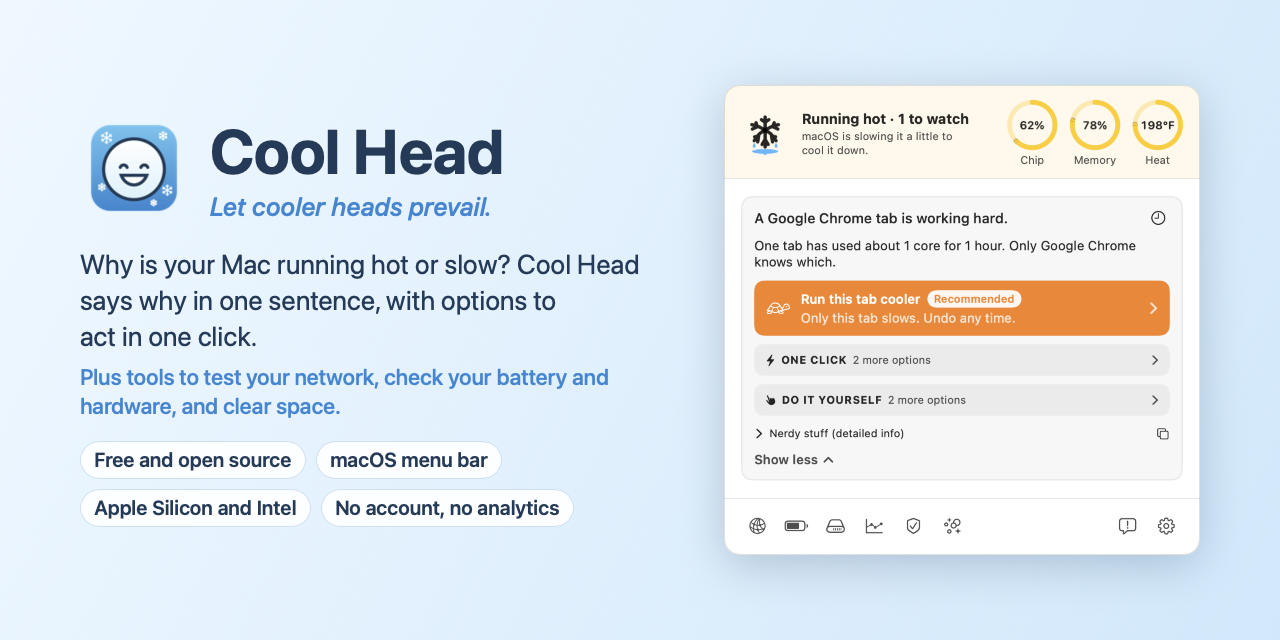
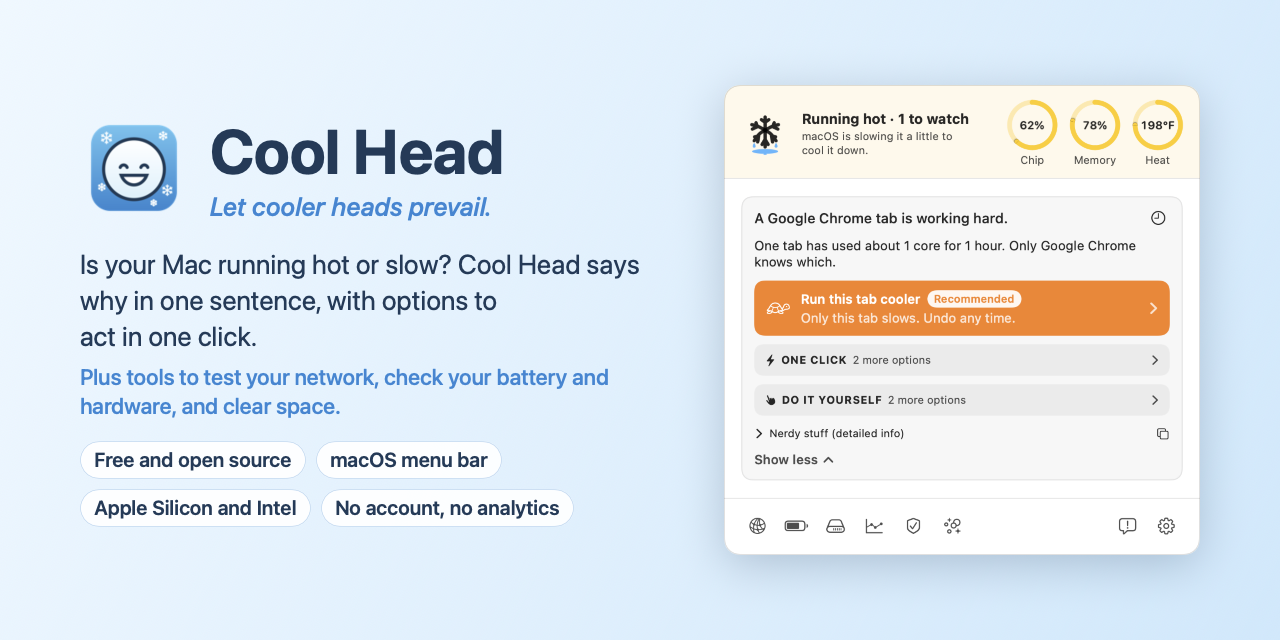
Managed by Cool Head open when nothing else is; About in the README's words (#77)
## What changes

- **Managed by Cool Head opens by itself** each time the panel opens,
and when the last tool or Settings closes. It folds while a card or tool
is open. Folding a card doesn't open it, so the cards don't move from
under the pointer just after a click. A card left open while a tool was
shown stays open.
- **About** uses the README's opening sentence: "Is your Mac running hot
or slow? Cool Head says why in one sentence, with options to act in one
click, plus tools to test your network, check your battery and hardware,
and clear space."
- **The license line** in About (from the Info.plist that
`scripts/build-app.sh` writes) says "GNU AGPL v3.0 only", as README,
TERMS, and COMMERCIAL do.
- **`scripts/apply-repo-settings.sh`** holds the proposed repository
description in the same words, the homepage, and all 20 topics. The
description on GitHub itself is changed only with Phil's yes.
- README, DESIGN.md, and two change notes.

## Checked

- `coolhead selftest`: 185 of 185.
- Renders with made-up samples: the panel freshly opened, with the
section open; About in light mode.
- Not tried in the running app: closing a tool and seeing the section
open.

The social card (PR 76) gets the same opening question on its own
branch.

Assisted by [Claude Code](https://claude.com/claude-code)

Changed region(s): [[0.0625, 0.375, 0.5, 0.5]]

diff --git a/Sources/CoolHeadApp/PanelView.swift b/Sources/CoolHeadApp/PanelView.swift
@@ -104,7 +104,9 @@ struct PanelView: View {
             }
             .frame(height: min(max(middleHeight, 40), PanelView.maxMiddle))
             .onPreferenceChange(MiddleHeight.self) { middleHeight = $0 }
-            .onChange(of: watcher.panelSession) { PanelFocus.shared.open = nil }
+            // with nothing else open, Managed by Cool Head is: each time the panel opens, and when the last tool closes
+            .onChange(of: watcher.panelSession) { PanelFocus.shared.open = PanelFocus.onHold }
+            .onChange(of: toolOpen) { if !toolOpen { PanelFocus.shared.openSection() } }
             Divider()
             // fixed at the bottom
             VStack(alignment: .leading, spacing: 10) {
@@ -124,6 +126,12 @@ struct PanelView: View {
     /// so a screenshot never shows the person's own processes.
     /// The header's level: the same rule, and the same cards, as the snowflake below it and the menu bar icon.
     var level: Watcher.Level { watcher.level(shownCards, thermal: RunningStrip.snapshotThermal) }
+
+    /// A tool, Settings, Report a problem, or Trends is open in the middle.
+    var toolOpen: Bool {
+        network.shown || tools.settings || tools.trusted || tools.battery || tools.hardware || tools.cleaner
+            || watcher.showReport || watcher.showHistory
+    }
 
     var shownCards: [LiveCard] {
         // COOLHEAD_SNAPSHOT_SAMPLES shows example cards (as `coolhead wording` names them, separated by |) in place of
@@ -176,8 +184,14 @@ struct GroupHeading: View {
 /// time"). Opening one closes the other, so the panel rarely needs to scroll.
 final class PanelFocus: ObservableObject {
     static let shared = PanelFocus()
-    /// The open card's id, or `onHold`; nil when everything is closed.
-    @Published var open: String? = ProcessInfo.processInfo.environment["COOLHEAD_SNAPSHOT_ONHOLD_OPEN"] != nil ? PanelFocus.onHold : nil
+    /// The open card's id, or `onHold`; nil when everything is closed. Managed by Cool Head starts open, and opens again
+    /// whenever nothing else is: each time the panel opens, and when the last tool or Settings closes (Phil, 19 November
+    /// 2026: "When there's nothing open (i.e., fresh panel open, or after closing a tool or settings) let's auto-expand
+    /// the "Managed by Cool Head" pane, because it's one less click for the user, more info, and "why not?""). Folding a
+    /// card doesn't open it, so the cards don't move from under the pointer just after a click. Screenshots that open
+    /// the first card (COOLHEAD_SNAPSHOT_OPEN) start with it folded, unless COOLHEAD_SNAPSHOT_ONHOLD_OPEN is set.
+    @Published var open: String? = ProcessInfo.processInfo.environment["COOLHEAD_SNAPSHOT_ONHOLD_OPEN"] != nil
+        || !PanelFocus.snapshotCard ? PanelFocus.onHold : nil
     static let onHold = "on-hold"
     /// Counts the panel's openings, so the frost is drawn fresh each time it opens.
     @Published var opened = 0
@@ -190,6 +204,8 @@ final class PanelFocus: ObservableObject {
     /// (Phil, 19 November 2026: "if someone opens the hold panel when on a tool screen, we might want them collapsed, or
     /// we might want to auto-close the tool", then "Build the "managed by..." edits as suggested").
     func foldSection() { if open == PanelFocus.onHold { open = nil } }
+    /// Opens Managed by Cool Head if nothing else is open: a card left open while a tool was shown stays open.
+    func openSection() { if open == nil { withAnimation(.easeOut(duration: 0.15)) { open = PanelFocus.onHold } } }
 }
 
 /// What's typed in Report a problem, and what's picked, kept while the form closes, the panel closes, or another tool

diff --git a/Sources/CoolHeadApp/CoolHeadApp.swift b/Sources/CoolHeadApp/CoolHeadApp.swift
@@ -173,7 +173,8 @@ enum About {
         let italic = NSFontManager.shared.convert(NSFont.systemFont(ofSize: 12), toHaveTrait: .italicFontMask)
         let center = NSMutableParagraphStyle(); center.alignment = .center
         let credits = NSMutableAttributedString(string: "Let cooler heads prevail.\n\n", attributes: [.font: italic])
-        credits.append(NSAttributedString(string: "Why is my Mac running hot or slow? What's happening, gathered from across your Mac into one place, with clear options to act in one click.\n\n",
+        // the same sentence as the README's opening, the repository's description, and its social card
+        credits.append(NSAttributedString(string: "Is your Mac running hot or slow? Cool Head says why in one sentence, with options to act in one click, plus tools to test your network, check your battery and hardware, and clear space.\n\n",
                                           attributes: [.font: body]))
         credits.append(NSAttributedString(string: "github.com/ThePhilDiamond/CoolHead",
                                           attributes: [.font: body, .link: URL(string: "https://github.com/ThePhilDiamond/CoolHead")!]))

diff --git a/scripts/social-card.swift b/scripts/social-card.swift
@@ -40,7 +40,7 @@ struct Split: View {
                             Text("Let cooler heads prevail.").font(.system(size: 26, weight: .medium).italic()).foregroundStyle(deep)
                         }
                     }
-                    Text("Why is your Mac running hot or slow? Cool\u{00A0}Head says why in one sentence, with options to act\u{00A0}in\u{00A0}one\u{00A0}click.")
+                    Text("Is your Mac running hot or slow? Cool\u{00A0}Head says why in one sentence, with options to act\u{00A0}in\u{00A0}one\u{00A0}click.")
                         .font(.system(size: 27, weight: .regular)).foregroundStyle(navy)
                         .lineSpacing(4).fixedSize(horizontal: false, vertical: true)
                         .padding(.top, 26)

diff --git a/DESIGN.md b/DESIGN.md
@@ -19,7 +19,7 @@ Drafted 14 November 2026 for Phil's review, at his request: *"we also should pos
 
 The menu bar panel, 440 points wide, under the icon; its top and bottom stay put, and the middle grows to fit, up to 720 points or the screen's height less the top and bottom, then scrolls. With scroll bars that take room (Show scroll bars: Always, or a mouse), the panel grows to the right by the scroll bar's width while the middle scrolls, so nothing in it narrows or moves (Phil, 18 November 2026: "Can we EXPAND the panel when we need a scroll bar instead of rendering it inside the panel?"). One thing is open at a time in the middle, a card or Managed by Cool Head, so it rarely needs to scroll (Phil, 18 November 2026: "only have one expanded thing at a time"):
 
-- Managed by Cool Head, at the top (called On hold until Phil, 19 November 2026: "i don't like "on hold" as a user could interpret that as disabled, rather than throttled/managed"): folded to one frosted line with its count on a dark band, until clicked; open, anything Cool Head is running cooler, pausing, limiting, or has turned off, as frosted lines in one titled section, and sync apps waiting to be resumed. Each line's undo is a button on the line itself (Speed up, Resume, Remove limit, Turn on, Back it up; "I resumed it" for a sync app, which Cool Head can't resume) (Phil, 16 November 2026: "It needs to be clear to the user they they need to expand and then act, or we need to add a big old button right there to release it"), and under it what it is and since when, always shown, since the section is the only thing open (Phil, 19 November 2026: "As we only display one thing at a time, when the hold panel is open, we should expand them, no?"). One Report a problem button under the lines covers all of them, and its form asks which one caused the trouble. Opening a tool folds the section, and opening the section closes the tool, as one tool closes another (Phil, 19 November 2026: "Build the "managed by..." edits as suggested"). A report's words and choices are kept, in memory only, through the panel closing or a tool opening, until it's sent or cancelled (Phil, 19 November 2026: "can we protect text entered in a report in case of accidental closes or clicking a tool?"). The frost grows along every edge, most in the corners, with fine needles for texture and two wild ferns from the top, chosen by Phil from two rounds of renders ("I think version 4 of the frost is the best"); its numbers are in `FrostStyle` to tune.
+- Managed by Cool Head, at the top (called On hold until Phil, 19 November 2026: "i don't like "on hold" as a user could interpret that as disabled, rather than throttled/managed"): open whenever nothing else is: each time the panel opens, and when the last tool or Settings closes, but not when a card folds, so the cards don't move from under the pointer (Phil, 19 November 2026: "When there's nothing open (i.e., fresh panel open, or after closing a tool or settings) let's auto-expand the "Managed by Cool Head" pane, because it's one less click for the user, more info, and "why not?""); folded, one frosted line with its count on a dark band, until clicked; open, anything Cool Head is running cooler, pausing, limiting, or has turned off, as frosted lines in one titled section, and sync apps waiting to be resumed. Each line's undo is a button on the line itself (Speed up, Resume, Remove limit, Turn on, Back it up; "I resumed it" for a sync app, which Cool Head can't resume) (Phil, 16 November 2026: "It needs to be clear to the user they they need to expand and then act, or we need to add a big old button right there to release it"), and under it what it is and since when, always shown, since the section is the only thing open (Phil, 19 November 2026: "As we only display one thing at a time, when the hold panel is open, we should expand them, no?"). One Report a problem button under the lines covers all of them, and its form asks which one caused the trouble. Opening a tool folds the section, and opening the section closes the tool, as one tool closes another (Phil, 19 November 2026: "Build the "managed by..." edits as suggested"). A report's words and choices are kept, in memory only, through the panel closing or a tool opening, until it's sent or cancelled (Phil, 19 November 2026: "can we protect text entered in a report in case of accidental closes or clicking a tool?"). The frost grows along every edge, most in the corners, with fine needles for texture and two wild ferns from the top, chosen by Phil from two rounds of renders ("I think version 4 of the frost is the best"); its numbers are in `FrostStyle` to tune.
 - Cards: one short sentence each, with Explore fixes (worth watching) or Learn more (calm), and a clock in the corner to check back later. Open, a card shows its explanation, its recommended option, and then One click and Do it yourself, each folded to a line saying how many more options it holds; one opens at a time.
 - At the very top, how the Mac is running, in a row tinted green, yellow, or red (there's no separate header: Phil, 17 November 2026, "The text shouldn't say "Starting to melt" - that's an abstraction taking the icon too far"): the menu bar icon's Melting Snowflake drawn larger, whole, melting, or in flames by the same level as the menu bar icon (anything slowing the Mac or needing action melts it; a serious problem sets it on fire); the status as its title ("1 to watch", "All calm", "Running hot · 1 looks stuck") over what's causing it in a few words; and three round gauges, Chip, Memory, and Heat (the chip's temperature, in the unit macOS's region settings use), colored by level. Memory is macOS's own measure for memory pressure, never "Memory Used".
 - Along the bottom: the tools, each an icon with its name (names can be hidden): Network (Test my network), Battery, and Hardware, the checks; Trends (the past week's energy use, and why it woke from sleep, from macOS's power log; each as rows with a symbol or icon, a name, and a figure, and what it means under it, with no click (Phil, 19 November 2026, of the energy rows: "Yes, same for energy"; of the wake rows: Phil, 19 November 2026: "Remove the chevrons and include the text persistently visible when that section is expanded. It seems like a needless extra click anyway"), Phil, 19 November 2026: "Can we also fix the "Why it woke from sleep" section to be more visual? it's a wall of text now"; the wakes above their rows as one thin bar split by reason, each reason's color fixed and its row carrying a swatch, so each reads as a share of the whole, Phil, 19 November 2026: "maybe as a pie chart or something that illustrates "share of total" rather than arbitrary bars?", a bar rather than a pie, so a small reason still shows); Trusted; Cleaner (macOS's bubbles and sparkles; a drawn broom was hard to make out, Phil, 18 November 2026: "Option 5 for the cleaner icon, macOS bubbles and sparkles"); and, at the right after a line, Report and Settings, since they're about Cool Head rather than the Mac; Settings is the right-most (Phil, 17 November 2026). Each opens in the panel's middle, one at a time. No Quit or Update button: Quit is on the Settings page and in the right-click menu, and the version and Check Now are on the Settings page, so the bar has room for the tools' names (Phil, 17 November 2026, choosing between renders: "Update in Settings"). Battery's page holds everything about the battery in one place: laid out like Test my network's result (Phil, 16 November 2026: "The battery tool isn't as visual as the network tool, it's a bit too much of a wall of text"): a verdict in a few words, three figures (how much it holds, cycles against Apple's rating, temperature), and what it's doing now on one line; More battery life (Low Power Mode, which Cool Head can only open settings for, and the week's energy use), and Battery Saver's switch last; a Mac with no battery has no Battery tool (Phil, 16 November 2026: "that keeps it organized and tidy and succinct, rather than having mixed data in mixed places"). Hardware's page (a drive icon, since most of it is the drive) gives a verdict, then each part with everything about it together (Phil, 16 November 2026: "we should keep related info together"): the drive's wear, writes, hours, temperature, and whether Time Machine backs it up; crash restarts, with when, what it means, and what to do; and port errors. Then memory and other parts, which macOS doesn't let apps test, with Apple Diagnostics' steps. The battery isn't on it: it has its own page. The Cleaner's page (Phil, 18 November 2026: "Can we add a broom "cleaner" tool"; then "The first section one-button should be stuff that definitely isn't needed and has no impact, trash. Then the second section, something like "Deep Clean", where you can select things should auto-check the stuff that rebuilds and have the "check these first" as options to check.") gives a verdict, then Quick clean, a list of what nothing uses and nothing has to rebuild, done with one button, with Choose a folder… under it, which looks only in a folder you choose, anywhere, with Downloads chosen to start, and the folders inside it (not hidden ones, the inside of apps, or links to folders elsewhere; at most 100,000 files; Phil, 19 November 2026: "Please add searching in child folders"), for second downloads and Finder duplicates whose bytes match the original's (Phil, 18 November 2026: "Check for duplicate files under deep clean should be under quick clean, as it's a quick zero-risk choice"; 19 November 2026: "word it more openly to check anywhere for duplicates, and then just default to the downloads folder"), keeping the panel open while the chooser is up; then Deep clean, folded, with what rebuilds itself ticked (rebuilding can need the internet) and what Cool Head can't be sure of unticked and marked Caution, or with a padlock where it needs a password; then what Cool Head moved, to put back. Every count and item shows its size in B, KB, MB, or GB (Phil, 18 November 2026: "when we show the number of files moved, we also need to show the file size (B/KB/MB/GB)"), and in each list items under 20 MB fold into one line laid out like the others, "3 smaller items, each under 20 MB" with their total and Show each one (Phil, 18 November 2026: "The smaller items folded together should be a single line item that matches the rest of the list unless expanded"); in Deep clean that line has no tick of its own, so nothing marked Caution is ticked unseen. Then links to Privacy & Security, whose permission lists apps can't read, and to Apple's Storage settings. Every button asks first, and everything goes to the Trash. The Settings page, behind the gear, holds every setting so everything is in the panel (Phil, 17 November 2026): General (Notifications, Open at login, Check for updates automatically, the version with Check Now), then Look (the menu bar icon, both styles drawn at each level to pick by sight, and Show tool names), then About and Quit. The first-launch welcome offers the icon and Open at login, and points to the gear. Right-clicking the menu bar icon shows only Settings…, About and Quit (Phil, 17 November 2026: "or we put back the settings icon in the tool bar and limit right click to quit").

diff --git a/README.md b/README.md
@@ -2,7 +2,7 @@
 
 <h1 align="center">Cool Head</h1>
 
-<p align="center"><em>Let cooler heads prevail.</em><br>Why is my Mac running hot or slow? What's happening, gathered from across your Mac into one place, with clear options to act in one click.<br>A free, open-source menu bar app for macOS.</p>
+<p align="center"><em>Let cooler heads prevail.</em><br>Is your Mac running hot or slow? Cool Head says why in one sentence, with options to act in one click, plus tools to test your network, check your battery and hardware, and clear space.<br>A free, open-source menu bar app for macOS.</p>
 
 <p align="center">
   <picture>
@@ -32,7 +32,7 @@ It keeps a cool head: a big job isn't a problem just because it's big, and stopp
 ## What it knows
 
 - **A warm Mac has a cause.** When your Mac warms up, each thing warming it gets a card with something to do, and the menu bar icon turns yellow.
-- **Slow it down, don't stop it.** **Run it cooler** moves a job to the efficiency cores: slower, cooler, and undoable. Anything Cool Head is slowing, pausing, limiting, or has turned off is a frosted line in the **Managed by Cool Head** section at the top of the panel ("Chrome is limited to 4 GB"), which folds to one line with its count until you click it; open, each line says what it is and since when, with the button to undo it on the line itself (**Speed up**, **Resume**, **Remove limit**, **Turn on**).
+- **Slow it down, don't stop it.** **Run it cooler** moves a job to the efficiency cores: slower, cooler, and undoable. Anything Cool Head is slowing, pausing, limiting, or has turned off is a frosted line in the **Managed by Cool Head** section at the top of the panel ("Chrome is limited to 4 GB"), which is open whenever nothing else is, and folds to one line with its count while a card or tool is open; open, each line says what it is and since when, with the button to undo it on the line itself (**Speed up**, **Resume**, **Remove limit**, **Turn on**).
 - **Chrome without quitting it.** It tells a busy tab, a busy extension, and Chrome's graphics work apart (also in Edge, Brave, and Arc), and offers what fits: run just that tab cooler, Energy Saver, turn off an extension, or close just that tab, before ever suggesting Quit. When memory is tight, **Limit Chrome** sets Chrome's own memory limit (Chrome then says it's "managed by your organization"; restore it from the top of the panel). **Restart Chrome, keeping your tabs** closes Chrome normally (so it can ask about downloads) and reopens it with the same windows and tabs, freeing the memory it has built up; Incognito windows, unsent form text, and downloads in progress don't come back (also for Edge, Brave, Vivaldi, and Chromium).
 - **The graphics chip counts.** An app keeping the graphics chip busy gets a card even when it uses little CPU, saying how much of the chip it uses.
 - **Games come first.** A game is never slowed down; other busy work is offered to run cooler instead, to leave the game more power.

diff --git a/changes/changed/about-wording.md b/changes/changed/about-wording.md
@@ -1,0 +1,1 @@
+- About says what Cool Head is in the same words as the README: "Is your Mac running hot or slow? Cool Head says why in one sentence, with options to act in one click, plus tools to test your network, check your battery and hardware, and clear space." Its license line now says GNU AGPL v3.0 only, as the license does.

diff --git a/changes/changed/managed-open-by-default.md b/changes/changed/managed-open-by-default.md
@@ -1,0 +1,1 @@
+- Managed by Cool Head is open whenever nothing else is: each time the panel opens, and when a tool or Settings closes. It folds while a card or tool is open.
